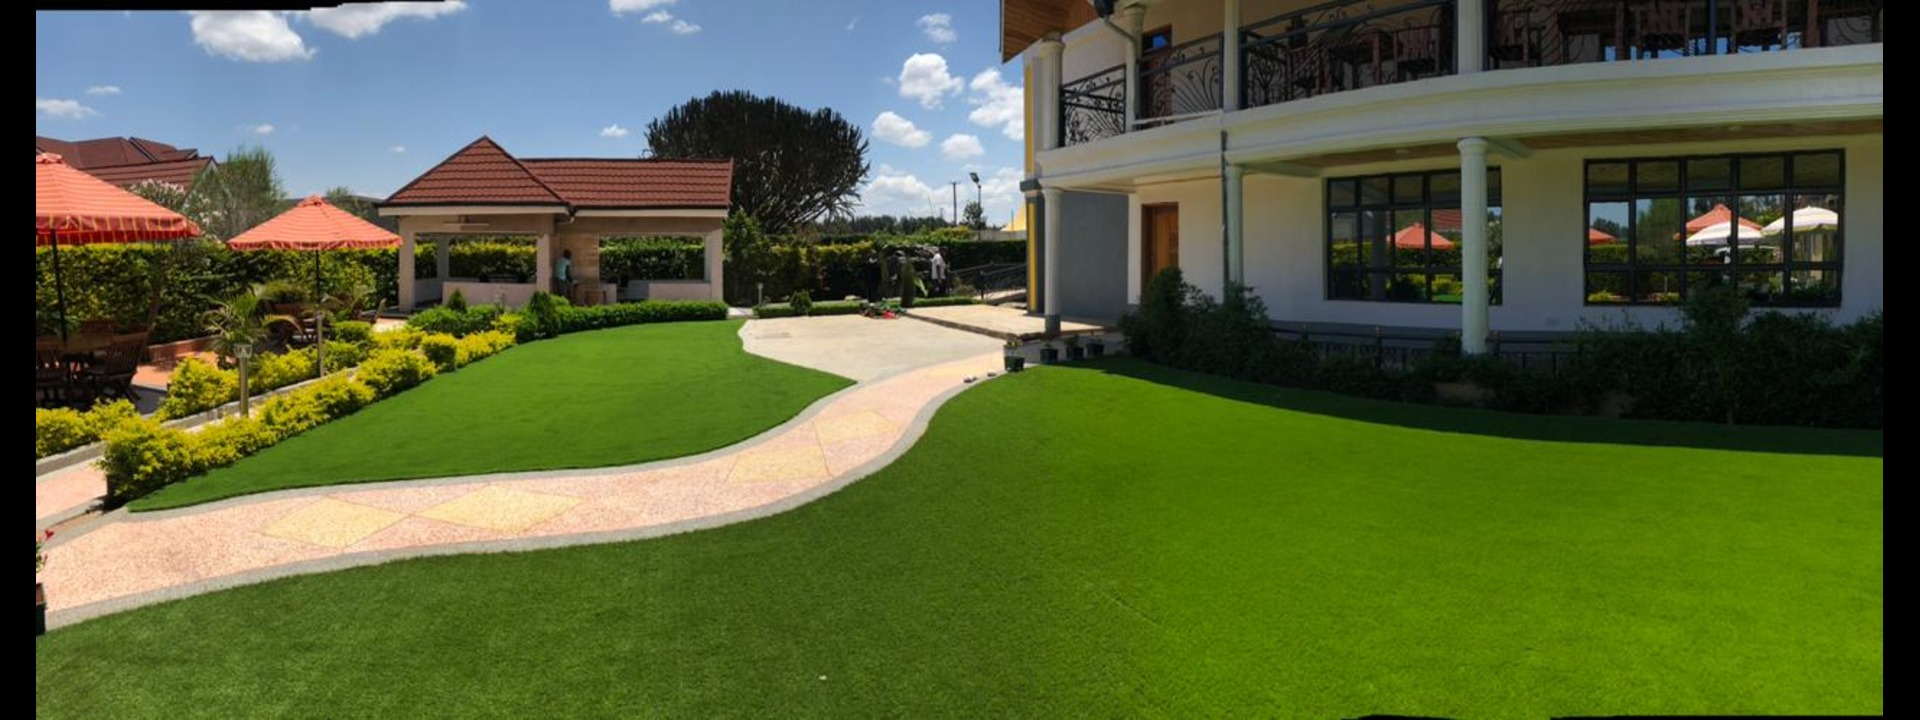
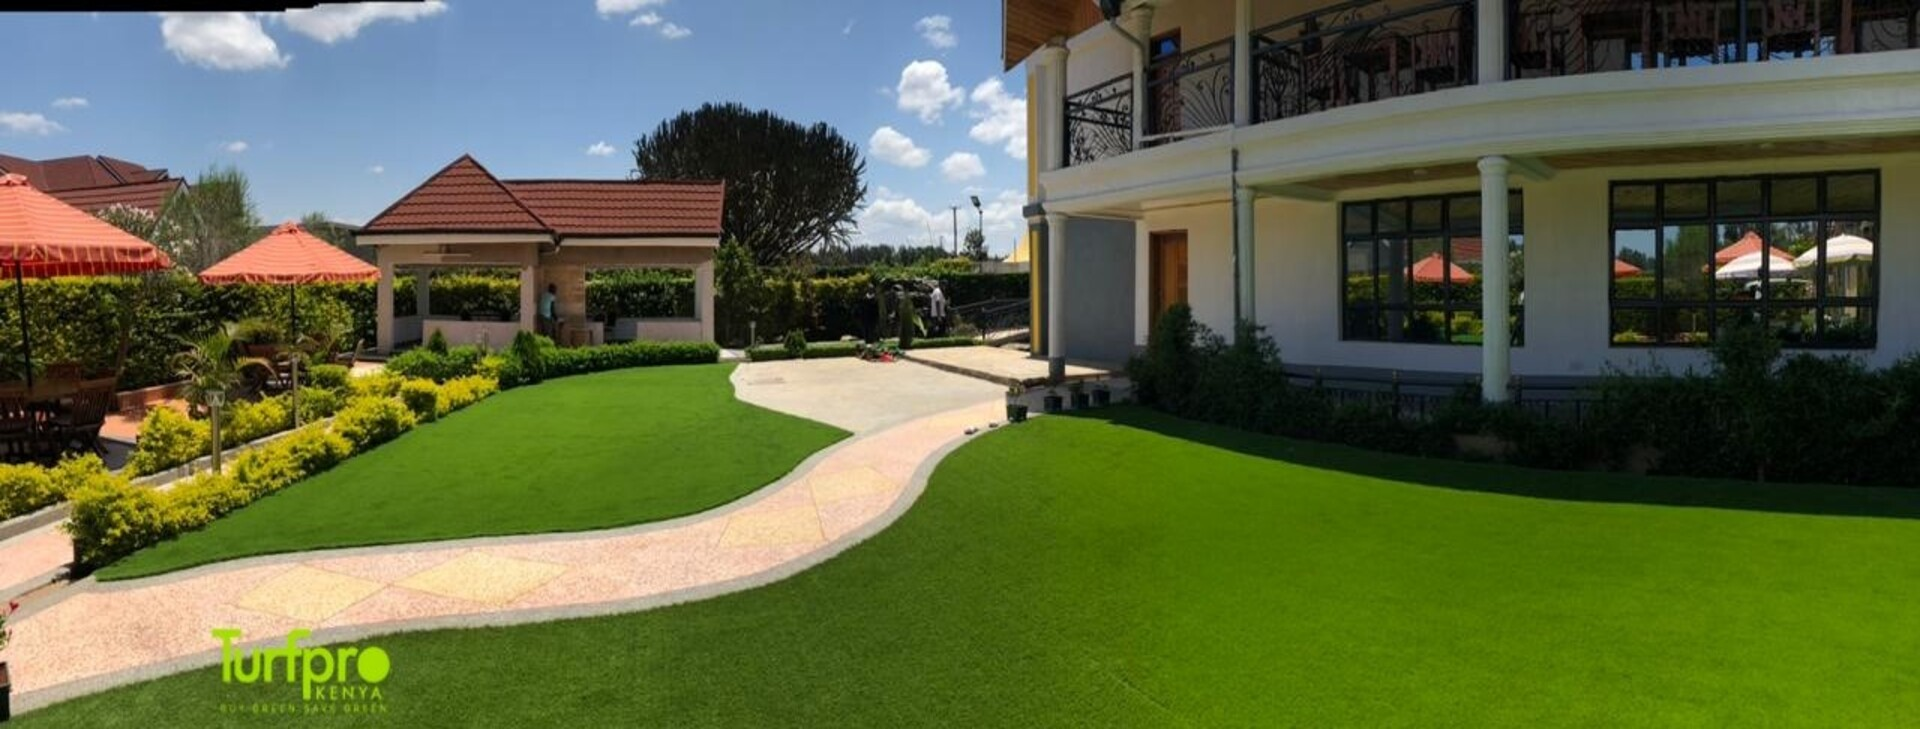
favicom

diff --git a/services.html b/services.html
@@ -11,6 +11,11 @@
 
     <!-- Color css -->
     <link rel="stylesheet" href="css/skin/color2.css">
+	<link rel="apple-touch-icon" sizes="180x180" href="/apple-touch-icon.png">
+<link rel="icon" type="image/png" sizes="32x32" href="/favicon-32x32.png">
+<link rel="icon" type="image/png" sizes="16x16" href="/favicon-16x16.png">
+<link rel="manifest" href="/site.webmanifest">
+
 
 </head>
 <body>
@@ -170,7 +175,7 @@
 	                            </div><!-- /.box -->
 	                        </div><!-- /.overlay -->
 	                    </div><!-- /.img-box -->
-	                    <h3>Design & Planting</h3>
+	                    <h3>Design</h3>
 	                    <p>Environmental problems result when exotic plants are placed in the landscape</p>
 	                </div><!-- /.single-service-box-one -->
 	            </div><!-- /.col-md-4 -->

diff --git a/gallery-v1.html b/gallery-v1.html
@@ -11,6 +11,11 @@
     
         <!-- Color css -->
         <link rel="stylesheet" href="css/skin/color2.css">
+        <link rel="apple-touch-icon" sizes="180x180" href="/apple-touch-icon.png">
+<link rel="icon" type="image/png" sizes="32x32" href="/favicon-32x32.png">
+<link rel="icon" type="image/png" sizes="16x16" href="/favicon-16x16.png">
+<link rel="manifest" href="/site.webmanifest">
+
     
     </head>
 <body>

diff --git a/index.html b/index.html
@@ -11,6 +11,11 @@
 
     <!-- Color css -->
     <link rel="stylesheet" href="css/skin/color2.css">
+    <link rel="apple-touch-icon" sizes="180x180" href="/apple-touch-icon.png">
+    <link rel="icon" type="image/png" sizes="32x32" href="/favicon-32x32.png">
+    <link rel="icon" type="image/png" sizes="16x16" href="/favicon-16x16.png">
+    <link rel="manifest" href="/site.webmanifest">
+    
 
 </head>
 <body>

diff --git a/about.html b/about.html
@@ -12,6 +12,11 @@
 
     <!-- Color css -->
     <link rel="stylesheet" href="css/skin/color2.css">
+    <link rel="apple-touch-icon" sizes="180x180" href="/apple-touch-icon.png">
+<link rel="icon" type="image/png" sizes="32x32" href="/favicon-32x32.png">
+<link rel="icon" type="image/png" sizes="16x16" href="/favicon-16x16.png">
+<link rel="manifest" href="/site.webmanifest">
+
 
 </head>
 <body>

diff --git a/appointment.html b/appointment.html
@@ -11,6 +11,11 @@
 
     <!-- Color css -->
     <link rel="stylesheet" href="css/skin/color1.css">
+	<link rel="apple-touch-icon" sizes="180x180" href="/apple-touch-icon.png">
+<link rel="icon" type="image/png" sizes="32x32" href="/favicon-32x32.png">
+<link rel="icon" type="image/png" sizes="16x16" href="/favicon-16x16.png">
+<link rel="manifest" href="/site.webmanifest">
+
 
 </head>
 <body>

diff --git a/contact.html b/contact.html
@@ -11,6 +11,11 @@
 	
 		<!-- Color css -->
 		<link rel="stylesheet" href="css/skin/color2.css">
+		<link rel="apple-touch-icon" sizes="180x180" href="/apple-touch-icon.png">
+<link rel="icon" type="image/png" sizes="32x32" href="/favicon-32x32.png">
+<link rel="icon" type="image/png" sizes="16x16" href="/favicon-16x16.png">
+<link rel="manifest" href="/site.webmanifest">
+
 	
 	</head>
 <body>

diff --git a/inc/sendmail.php b/inc/sendmail.php
@@ -30,8 +30,8 @@ if( $_SERVER['REQUEST_METHOD'] == 'POST' ) {
 
         $botcheck = $_POST['form_botcheck'];
 
-        $toemail = 'your mail'; // Your Email Address
-        $toname = 'your company'; // Your Name
+        $toemail = 'turfproke@gmail.com'; // Your Email Address
+        $toname = 'Turf Pro Kenya'; // Your Name
 
         if( $botcheck == '' ) {
 
